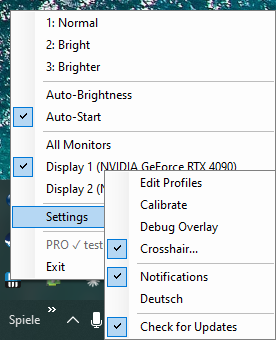
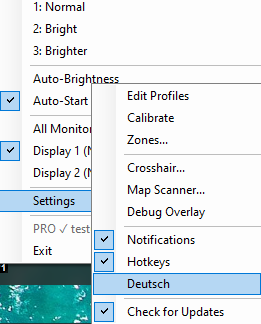
docs: add Map Scanner and updated submenu screenshot to README

diff --git a/README.md b/README.md
@@ -21,6 +21,10 @@ One EXE, zero dependencies, 104 KB.
 |---|---|---|
 | ![Settings](assets/screenshots/settings.png) | ![Tray Menu](assets/screenshots/tray.png) | ![Submenu](assets/screenshots/submenu.png) |
 
+**Map Scanner — live evacuation timer overlay (Pro):**
+
+![Map Scanner](assets/screenshots/Map%20Scanner.PNG)
+
 ## Demo Videos
 
 > **Note on video quality:** BrightRaider works by adjusting display output at the GPU level — the same way your monitor brightness works. Because of this, screen recording software cannot capture the actual brightness changes. The videos were recorded with a phone camera pointed at the monitor, which is why the quality is lower than usual. This is also proof that BrightRaider is not a cheat — it only changes display settings, nothing inside the game.
